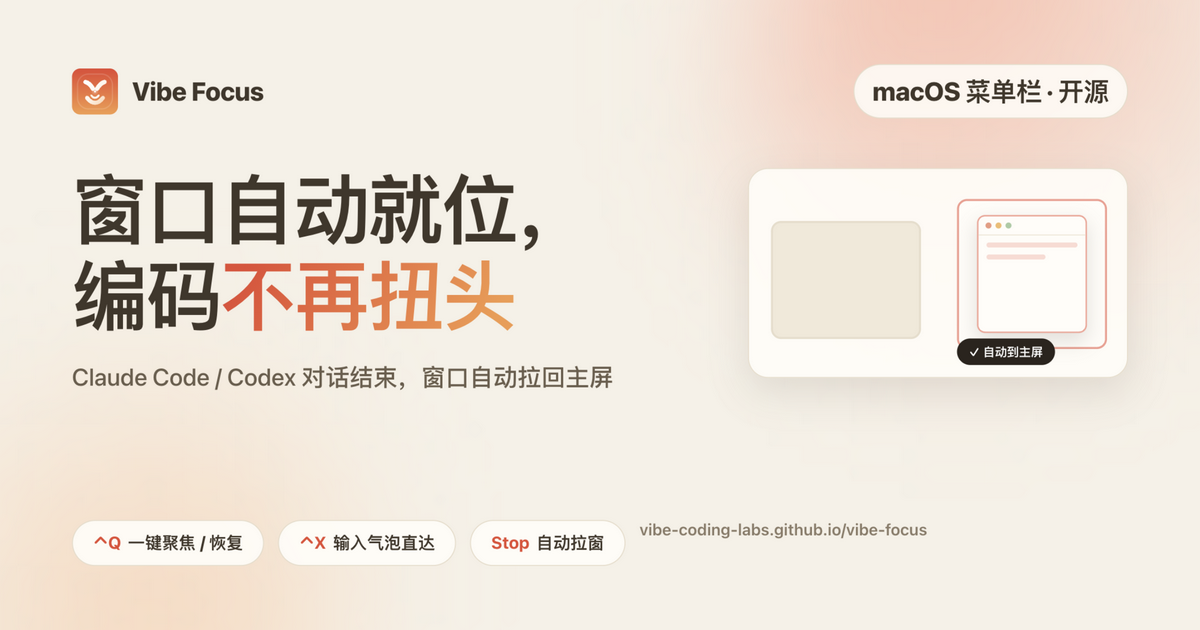
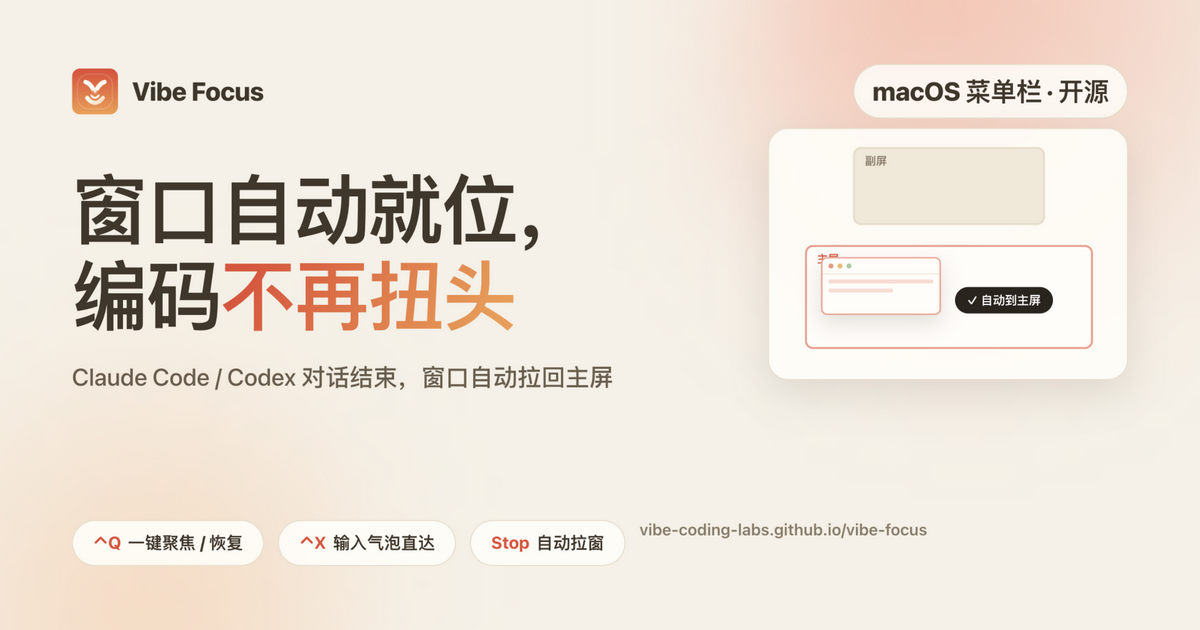
fix(website): 演示动画全部改上下排——副屏在上、主屏在下，对齐用户真实布局
用户实测布局为上下排屏（主屏在下、副屏在上），此前三处演示全部左右排：
- 首屏 WindowFlowAnim：舞台改竖构图（aspect 10/9），副屏居上、主屏居下，
  窗口垂直向下飞入主屏再回位，⌃Q 键帽/徽章/虚线空位/发光全部随坐标迁移
- 自动化 flow-stage：flex 改纵向默认（全宽度生效，删 920px 特判），
  箭头改垂直虚线并作为静态子元素夹在两屏之间，Stop 步骤联动不变
- og-image 分享图 mini 示意同步上下排并重渲染

门禁：npm run build 零告警；1440/390 双视口截图验证（首屏+自动化区）

Changed region(s): [[0.6167, 0.181, 0.9558, 0.6032]]

diff --git a/website/src/styles.css b/website/src/styles.css
@@ -487,7 +487,7 @@ code {
 
 .wf-stage {
   position: relative;
-  aspect-ratio: 10 / 5.4;
+  aspect-ratio: 10 / 9;
   background: linear-gradient(135deg, #fbf7ef 0%, #f4ead6 100%);
   border: 1px solid var(--line);
   border-radius: 26px;
@@ -503,12 +503,12 @@ code {
 }
 
 .wf-screen-secondary {
-  left: 5%; top: 22%; width: 38%; height: 62%;
+  left: 22%; top: 5%; width: 56%; height: 38%;
   background: #f1e9d8;
 }
 
 .wf-screen-primary {
-  left: 55%; top: 10%; width: 40%; height: 78%;
+  left: 10%; top: 50%; width: 80%; height: 38%;
   border-color: rgba(230, 74, 51, 0.35);
   animation: wf-primary-glow 7.5s ease infinite;
 }
@@ -554,9 +554,9 @@ code {
 }
 
 @keyframes wf-fly {
-  0%, 9% { left: 11%; top: 36%; width: 26%; height: 42%; }
-  26%, 48% { left: 58.5%; top: 16%; width: 33%; height: 66%; }
-  65%, 100% { left: 11%; top: 36%; width: 26%; height: 42%; }
+  0%, 9% { left: 31%; top: 12%; width: 38%; height: 20%; }
+  26%, 48% { left: 16%; top: 54%; width: 68%; height: 30%; }
+  65%, 100% { left: 31%; top: 12%; width: 38%; height: 20%; }
 }
 
 .wf-win-bar {
@@ -599,7 +599,7 @@ code {
 
 .wf-slot {
   position: absolute;
-  left: 11%; top: 36%; width: 26%; height: 42%;
+  left: 31%; top: 12%; width: 38%; height: 20%;
   border: 1.5px dashed rgba(138, 123, 104, 0.6);
   border-radius: 10px;
   display: flex;
@@ -625,7 +625,7 @@ code {
 
 .wf-badge {
   position: absolute;
-  left: 50%; bottom: 5%;
+  left: 50%; bottom: 2.5%;
   transform: translateX(-50%) translateY(6px);
   background: #2b241d;
   color: #fff;
@@ -649,7 +649,7 @@ code {
 
 .wf-key {
   position: absolute;
-  left: 43.5%; top: 30%;
+  left: 72%; top: 42%;
   z-index: 4;
   background: #fff;
   border: 1.5px solid rgba(64, 54, 43, 0.24);
@@ -682,8 +682,8 @@ code {
 
 .wf-arrow {
   position: absolute;
-  left: 41.5%; top: 20%;
-  width: 16%;
+  left: 12%; top: 32%;
+  width: 11%;
   stroke: var(--coral);
   fill: none;
   stroke-width: 3;
@@ -696,7 +696,7 @@ code {
 .wf-arrow polygon { fill: var(--coral); stroke: none; }
 
 @keyframes wf-arrow {
-  0%, 10% { opacity: 0; transform: translateX(-8px); }
+  0%, 10% { opacity: 0; transform: translateY(-8px); }
   17%, 25% { opacity: 0.95; transform: none; }
   36%, 100% { opacity: 0; }
 }
@@ -1031,9 +1031,9 @@ code {
 .flow-stage {
   position: relative;
   display: flex;
-  gap: 56px;
-  justify-content: center;
-  align-items: stretch;
+  flex-direction: column;
+  align-items: center;
+  gap: 30px;
   padding: 10px 0 6px;
 }
 
@@ -1057,11 +1057,11 @@ code {
 }
 
 .flow-screen-secondary {
-  width: min(300px, 38%);
+  width: min(460px, 88%);
 }
 
 .flow-screen-primary {
-  width: min(380px, 46%);
+  width: min(560px, 100%);
   background: #fff9f0;
   border-color: var(--peach-soft);
 }
@@ -1152,12 +1152,10 @@ code {
 }
 
 .flow-arrow {
-  position: absolute;
-  top: 42%;
-  left: 50%;
-  transform: translateX(-50%);
-  width: 120px;
-  height: 60px;
+  width: 40px;
+  height: 46px;
+  flex: none;
+  margin: -4px 0;
   z-index: 2;
 }
 
@@ -1716,18 +1714,7 @@ code {
   }
 
   .flow-stage {
-    flex-direction: column;
-    gap: 30px;
-    align-items: center;
-  }
-
-  .flow-screen-secondary,
-  .flow-screen-primary {
-    width: min(420px, 100%);
-  }
-
-  .flow-arrow {
-    display: none;
+    gap: 24px;
   }
 
   .flow-bubble {

diff --git a/website/src/App.tsx b/website/src/App.tsx
@@ -333,9 +333,9 @@ function WindowFlowAnim() {
         <div className="wf-badge">✓ 响应完成 · 窗口自动到主屏</div>
         <div className="wf-key wf-key-focus">⌃Q</div>
         <div className="wf-key wf-key-restore">⌃Q</div>
-        <svg className="wf-arrow" viewBox="0 0 100 40" aria-hidden="true">
-          <path d="M4 30 C 30 6, 62 6, 92 22" />
-          <polygon points="92,22 82,15 84,26" />
+        <svg className="wf-arrow" viewBox="0 0 40 100" aria-hidden="true">
+          <path d="M12 4 C 34 28, 34 62, 14 88" />
+          <polygon points="14,96 7,81 20,82" />
         </svg>
       </div>
       <div className="wf-captions">
@@ -577,6 +577,10 @@ function Automation() {
               <div className="flow-window-lines"><i /><i /><i className="short" /></div>
             </div>
           </div>
+          <svg className="flow-arrow" viewBox="0 0 40 100" aria-hidden="true">
+            <path d="M12 4 C 34 28, 34 62, 14 88" />
+            <polygon className="flow-arrow-head" points="14,96 7,81 20,82" />
+          </svg>
           <div className="flow-screen flow-screen-primary">
             <span className="flow-screen-label">主屏</span>
             <div className="flow-window flow-window-main">
@@ -589,10 +593,6 @@ function Automation() {
               ⏎ 已自动提交 · 窗口不动
             </div>
           </div>
-          <svg className="flow-arrow" viewBox="0 0 120 60" aria-hidden="true">
-            <path d="M4 44 C 40 8, 78 8, 114 36" />
-            <polygon className="flow-arrow-head" points="114,36 103,30 106,41" />
-          </svg>
         </div>
 
         <div className="flow-steps">
